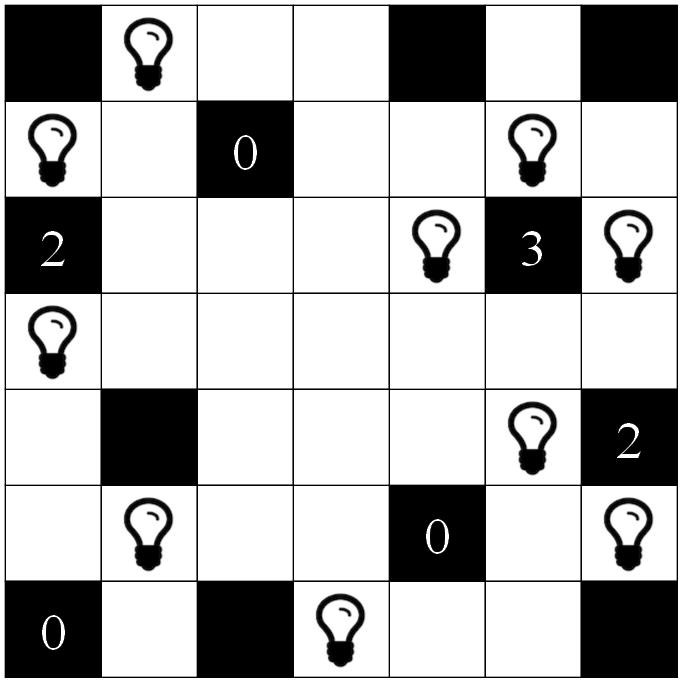
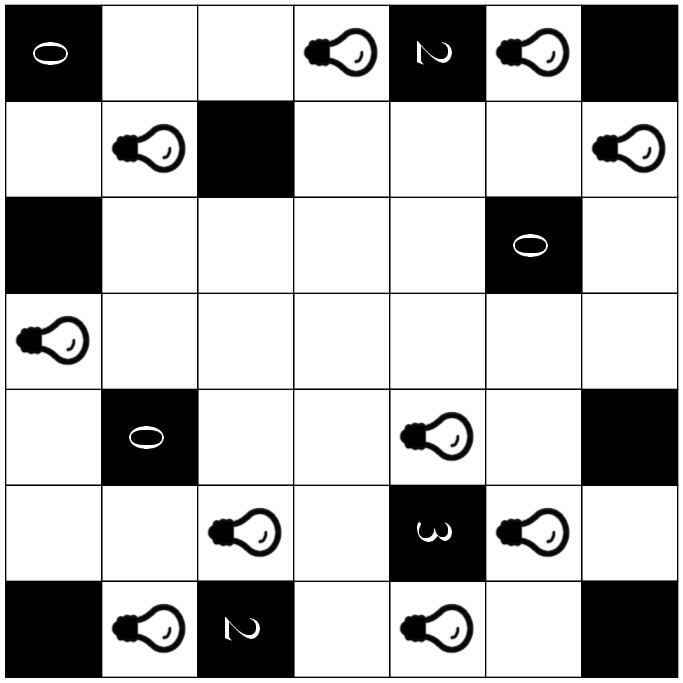
Final changes

diff --git a/RP_LabAssignment2/decode.py b/RP_LabAssignment2/decode.py
@@ -1,0 +1,42 @@
+import clingo
+import sys
+### Main program
+
+if len(sys.argv)<2:
+    print("decode.py file1 [file2 ... ]")
+    sys.exit()
+
+# Loading files and grounding
+ctl = clingo.Control()
+ctl.add("base", [], "")
+for arg in sys.argv[1:]:
+    ctl.load(arg)
+ctl.ground([("base", []),("display",[])])
+
+# Solving    
+models = []
+with ctl.solve(yield_=True) as handle:
+  for model in handle:
+      models.append(model.symbols(atoms=True))
+if len(models)==0:
+    print("No answer sets")
+    sys.exit()
+if len(models)>1:
+    print("Multiple solutions found")
+    sys.exit()
+lits=models[0]
+for l in lits:
+    if l.name=="dim":
+        n=l.arguments[0].number
+        break
+a=[['.' for x in range(n)] for y in range(n)]
+for l in lits:
+    if l.name=="cell":
+        c=l.arguments[2]
+        if c.type==clingo.TheoryTermType.Number:
+            c=str(c.number)
+        a[l.arguments[0].number][l.arguments[1].number]=c
+for i in range(n):
+    for j in range(n):
+        print(a[i][j],end='')
+    print("")

diff --git a/RP_LabAssignment2/encode_modified.py b/RP_LabAssignment2/encode_modified.py
@@ -1,0 +1,13 @@
+import sys
+
+lineas = list(sys.stdin)
+total_de_filas = len(lineas)
+
+for i, line in enumerate(lineas):
+    j = total_de_filas - i - 1
+    for k, c in enumerate(line.strip()):
+        if c in ['x', 'b', '0', '1', '2', '3', '4']:
+            print(f"cell({k},{j},{c}).")
+
+print(f"dim({total_de_filas}).")
+print(f"#const n={total_de_filas}.")

diff --git a/RP_LabAssignment2/encode.py b/RP_LabAssignment2/encode.py
@@ -1,0 +1,12 @@
+import sys
+
+i=0
+for line in sys.stdin:
+    j=0
+    for c in line:
+       if c=='x' or c=='b' or (c>='0' and c<='4'):
+         print(f"cell({i},{j},{c}).") 
+       j=j+1
+    i=i+1
+print(f"dim({i}).")
+print(f"#const n={i}.")
